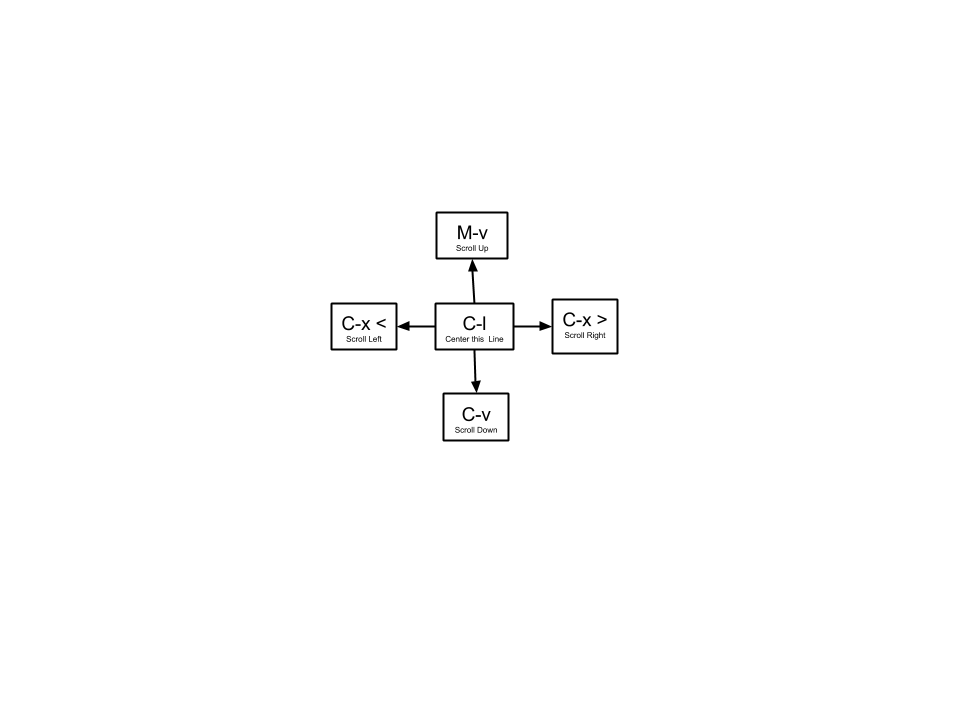
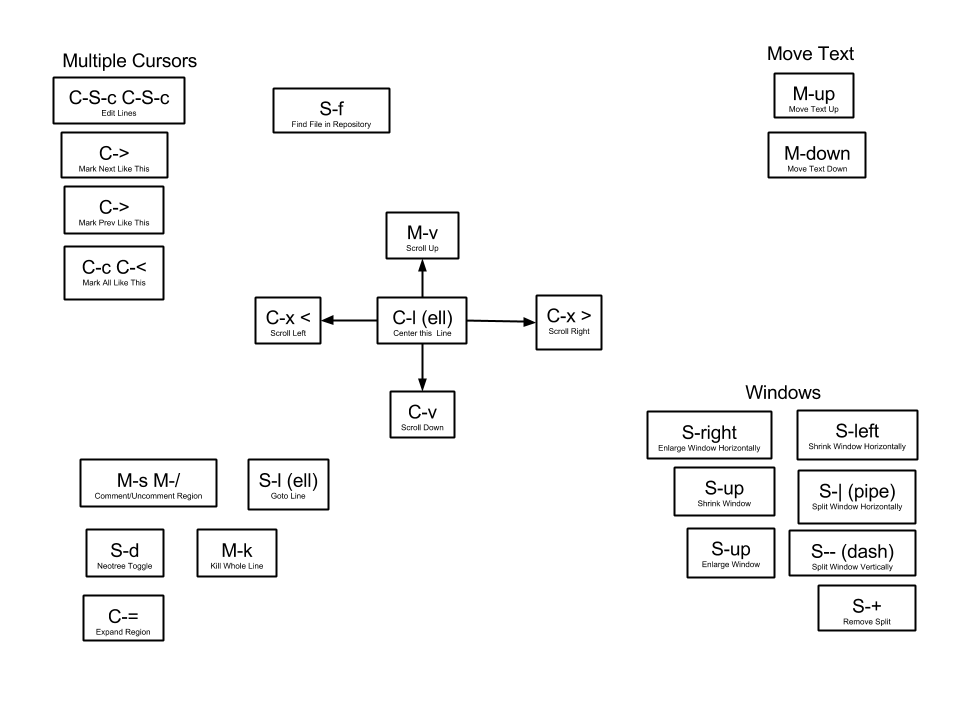
Improve keymap diagrams, add Spectacle diagram

diff --git a/README.md b/README.md
@@ -47,11 +47,15 @@ With a bit of work, you can work mostly rodent-free. Key bindings for each of th
 
 ![Movement](Movement.png)
 
-# Scrolling Keys
+# Files, Windows, Scrolling Keys
 
 ![Scrolling](Scrolling.png)
 
 # Ensime
 
 ![Ensime](Ensime.png)
+
+# Spectacle
+
+![Spectacle](spectacle.png)
 
